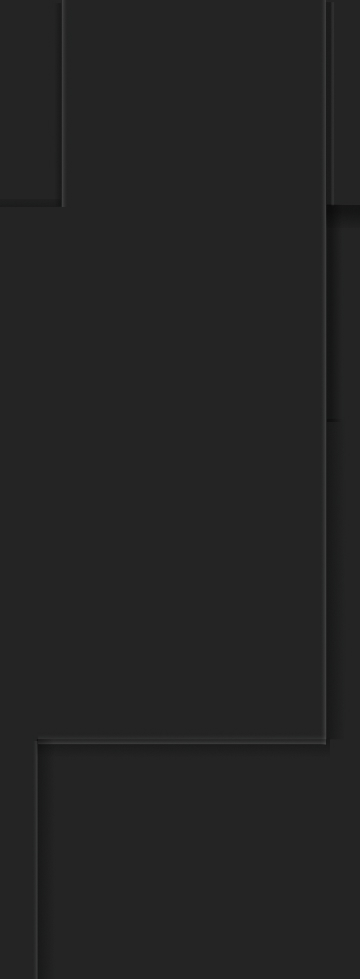
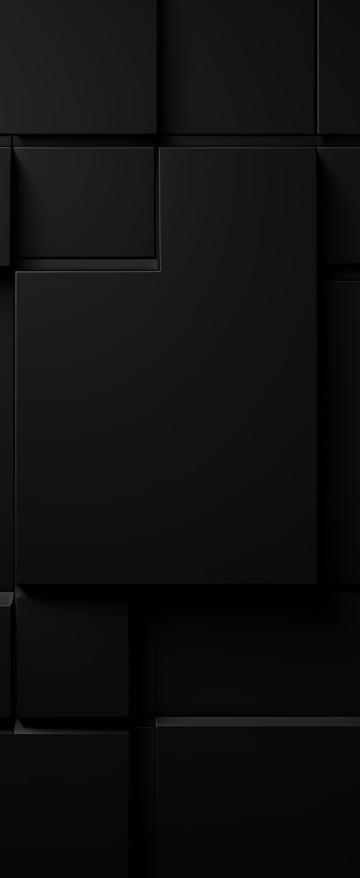
Adding pulse loader + improved bg images for all resolutions

diff --git a/src/domain/shared/components/pulse-loader.tsx b/src/domain/shared/components/pulse-loader.tsx
@@ -1,0 +1,51 @@
+"use client";
+import { motion } from "framer-motion";
+
+const PulseLoader = () => {
+  return (
+    <div data-ui="pulse-loader" className="relative w-full">
+      <div className="w-[80px] absolute top-1/2 left-1/2 -translate-x-1/2 -translate-y-1/2">
+        <motion.svg
+          initial="initial"
+          animate={{ fill: "var(--active-primary)", scale: 0.2 }}
+          transition={{
+            duration: 1,
+            type: "spring",
+            repeat: Infinity,
+            repeatType: "reverse",
+          }}
+          viewBox="0 0 26 26"
+          fill="transparent"
+        >
+          <rect
+            x="0.5"
+            y="0.5"
+            width="25"
+            height="25"
+            rx="12.5"
+            stroke="var(--active-primary)"
+          />
+        </motion.svg>
+      </div>
+
+      <div className="w-[20px] h-[20px] absolute top-1/2 left-1/2 -translate-x-1/2 -translate-y-1/2">
+        <motion.svg
+          viewBox="0 0 120 120"
+          fill="var(--active-primary)"
+          stroke="var(--active-primary)"
+          animate={{ fill: "transparent", scale: 4 }}
+          transition={{
+            duration: 1,
+            type: "spring",
+            repeat: Infinity,
+            repeatType: "reverse",
+          }}
+        >
+          <circle cx="60" cy="60" r="50" strokeWidth="4" />
+        </motion.svg>
+      </div>
+    </div>
+  );
+};
+
+export { PulseLoader };

diff --git a/src/app/side-projects/page.tsx b/src/app/side-projects/page.tsx
@@ -1,16 +1,4 @@
 "use client";
-import { usePathname, useRouter, useSearchParams } from "next/navigation";
-import { sideProjects } from "@/domain/side-projects/constants";
-import { motion } from "framer-motion";
-
-import { SideProject } from "@/domain/side-projects/typing/interfaces-and-enums";
-import { useEffect, useRef } from "react";
-import { screens } from "@/domain/shared/animations";
-import { updateParamsOnURL } from "@/domain/shared/utils/url-manipulation";
-import animations from "@/domain/side-projects/animations";
-import { Project } from "@/domain/side-projects/components/project";
-import { cn } from "@/domain/shared/utils/classnames";
-import { ScreenHeading } from "@/domain/shared/components/screen-heading";
 
 export default function SideProjectRootScreen() {
   return (

diff --git a/src/app/layout.tsx b/src/app/layout.tsx
@@ -23,7 +23,7 @@ export default function RootLayout({
 }) {
   return (
     <html lang="en" className={htmlClasses}>
-      <body className="bg-cover bg-no-repeat bg-fixed bg-main-mobile antialiased flex flex-col overflow-hidden">
+      <body className="bg-cover bg-no-repeat bg-fixed bg-main-mobile antialiased flex flex-col overflow-hidden md:bg-main-tablet lg:bg-main-desktop xl:bg-main-desktop-large fh:bg-main-full-hd">
         <ThemeSetup />
         <AppHeader />
         <main className="x-global-spacing flex-1  max-h-[calc(100dvh-92px-92px)] z-10 relative">

diff --git a/src/app/knowledge/[slug]/loading.tsx b/src/app/knowledge/[slug]/loading.tsx
@@ -1,9 +1,12 @@
+import { PulseLoader } from "@/domain/shared/components/pulse-loader";
+
 export default function Loading() {
   return (
     <div className="x-global-spacing py-8 px-10 fixed h-screen w-screen grid place-content-center top-0 left-0 min-h-[300px] lg:flex lg:items-center lg:gap-x-24">
       <p className="text-6xl text-teal-500 font-light font-serif">
         studying...
       </p>
+      <PulseLoader />
     </div>
   );
 }

diff --git a/tailwind.config.ts b/tailwind.config.ts
@@ -26,6 +26,8 @@ const config: Config = {
         "main-mobile": "url('/main-bg-mobile.jpg')",
         "main-tablet": "url('/main-bg-tablet.jpg')",
         "main-desktop": "url('/main-bg-desktop.jpg')",
+        "main-desktop-large": "url('/main-bg-desktop-large.jpg')",
+        "main-full-hd": "url('/main-bg-full-hd.jpg')",
       },
       colors: {
         "pink-100": palette["pink-100"].hex,

diff --git a/src/app/experience/[experience-id]/loading.tsx b/src/app/experience/[experience-id]/loading.tsx
@@ -1,0 +1,12 @@
+import { PulseLoader } from "@/domain/shared/components/pulse-loader";
+
+export default function Loading() {
+  return (
+    <div
+      data-ui="experience-id-loading"
+      className="flex flex-col pt-12 pr-4 overflow-auto lg:flex-1 lg:pt-0 lg:flex-row lg:gap-x-20"
+    >
+      <PulseLoader />
+    </div>
+  );
+}
